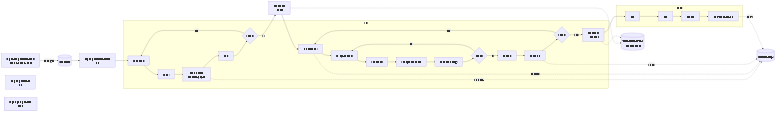
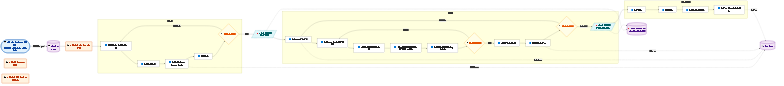
docs: 为 10.2 迭代流程图应用 classDef + Emoji + 语义化形状样式

diff --git a/docs/reports/REPORT-v3-2026-06-16-executive.md b/docs/reports/REPORT-v3-2026-06-16-executive.md
@@ -248,61 +248,73 @@ ChorusGate v3 迭代由一个碳基核心 + 三个硅基数字员工组成，所
 
 ```mermaid
 flowchart LR
-    Z["Z / delez / Zederer????<br>???? & ???? & ????"]
-    K["K / ?? / Claude Code<br>??"]
-    M["M / ?? / Hermes<br>??"]
-    C["C / ?? / ?? / Codex<br>????"]
-    S[("<#C0BAB3Y7LLC><br>Slack ??????")]
-    DM[("Slack DM")]
-    Git[(GitHub Repo)]
+    %% === 样式定义区 ===
+    classDef actor     fill:#e3f2fd,stroke:#1565c0,stroke-width:2px,color:#0d47a1
+    classDef system    fill:#fff3e0,stroke:#e65100,stroke-width:2px,color:#bf360c
+    classDef database  fill:#f3e5f5,stroke:#7b1fa2,stroke-width:2px,color:#4a148c
+    classDef external  fill:#fce4ec,stroke:#c62828,stroke-width:2px,color:#b71c1c,stroke-dasharray:5 5
+    classDef decision  fill:#fffde7,stroke:#f9a825,stroke-width:2px,color:#e65100
+    classDef process   fill:#ffffff,stroke:#424242,stroke-width:1px,color:#212121
+    classDef terminal  fill:#e8f5e9,stroke:#2e7d32,stroke-width:2px,color:#1b5e20
+    classDef error     fill:#ffebee,stroke:#c62828,stroke-width:2px,color:#b71c1c
+    classDef async     fill:#e0f7fa,stroke:#00838f,stroke-width:2px,color:#006064,stroke-dasharray:5 5
+    classDef highlight fill:#fff9c4,stroke:#f57f17,stroke-width:3px,color:#e65100
 
-    Z -->|???? goal| DM
+    Z(["🛡️ Z / delez / Zederer（老乐）<br>目标下发 & 设计验收 & 最终验收"]):::actor
+    K("🤖 K / 小克 / Claude Code<br>开发"):::system
+    M("🤖 M / 小马 / Hermes<br>测试"):::system
+    C("🤖 C / 小查 / 小扣 / Codex<br>管理整合"):::system
+    S[("📢 <#C0BAB3Y7LLC><br>Slack 迭代协作频道")]:::database
+    DM[("💬 Slack DM<br>Z → K")]:::database
+    Git[("🗄️ GitHub Repo")]:::database
+
+    Z -->|下发任务 goal| DM
     DM --> K
 
-    subgraph ???
+    subgraph 设计环
         direction TB
-        D1["???????????"] --> D2["??????"]
-        D2 --> D3["???? issues<br>feature / epic"]
-        D3 --> D4["????"]
-        D4 --> D5{???????}
-        D5 -->|????| D1
+        D1["➡️ 调研需求、分析产品方案"]:::process --> D2["➡️ 输出产品方案"]:::process
+        D2 --> D3["➡️ 编写任务 issues<br>feature / epic"]:::process
+        D3 --> D4["➡️ 提请验收"]:::process
+        D4 --> D5{"❓ 设计验收通过?"}:::decision
+        D5 -->|驳回修改| D1
     end
 
     K --> D1
-    D5 -->|??| N1["Slack ????<br>?????"]
+    D5 -->|通过| N1[/📣 Slack 通知消息<br>进入开发环/]:::async
     N1 -.-> S
 
-    subgraph ???
+    subgraph 开发环
         direction TB
-        P1["? issues ????"] --> P2["?? spec????????"]
-        P2 --> P3["???????????"]
-        P3 --> P4["????/??????????????"]
-        P4 --> P5["???????? bug ???"]
-        P5 --> P6{???????}
-        P6 -->|???| P2
-        P6 -->|??| P7["????????"]
-        P7 --> P8["?????? PR"]
-        P8 --> P9{???????}
-        P9 -->|????| P1
-        P9 -->|????| N2["Slack ????<br>???????"]
+        P1["➡️ 取 issues 开始开发"]:::process --> P2["➡️ 编写 spec 技术方案开发计划"]:::process
+        P2 --> P3["➡️ 代码实现单元测试与自测"]:::process
+        P3 --> P4["➡️ 提交代码/推送至功能分支并创建 PR 草稿"]:::process
+        P4 --> P5["➡️ 执行系统测试提交 bug 待修复"]:::process
+        P5 --> P6{"❓ 需求测试通过?"}:::decision
+        P6 -->|不通过| P2
+        P6 -->|通过| P7["➡️ 代码评审修订改进"]:::process
+        P7 --> P8["➡️ 创建提交合并 PR"]:::process
+        P8 --> P9{"❓ 评审验收通过?"}:::decision
+        P9 -->|驳回修改| P1
+        P9 -->|验收通过| N2[/📣 Slack 通知消息<br>开发完成待发布/]:::async
     end
 
     N1 --> P1
     N2 -.-> S
 
-    subgraph ?????
+    subgraph 发布回顾环
         direction TB
-        R1["????"] --> R2["????"]
-        R2 --> R3["????????"]
-        R3 --> R4["?? PR ? main ????"]
+        R1["➡️ 合并发布"]:::process --> R2["➡️ 回顾总结"]:::process
+        R2 --> R3["➡️ 文档整理归档发布"]:::process
+        R3 --> R4["➡️ 合并 PR 至 main 分支发布"]:::process
     end
 
     N2 --> R1
 
-    D3 -.->|?? issues| Git
-    P1 -.->|?? issue| Git
-    P8 -.->|?? PR| Git
-    R4 -.->|?? PR| Git
+    D3 -.->|创建 issues| Git
+    P1 -.->|拉取 issue| Git
+    P8 -.->|提交 PR| Git
+    R4 -.->|合并 PR| Git
 ```
 
 **设计环**